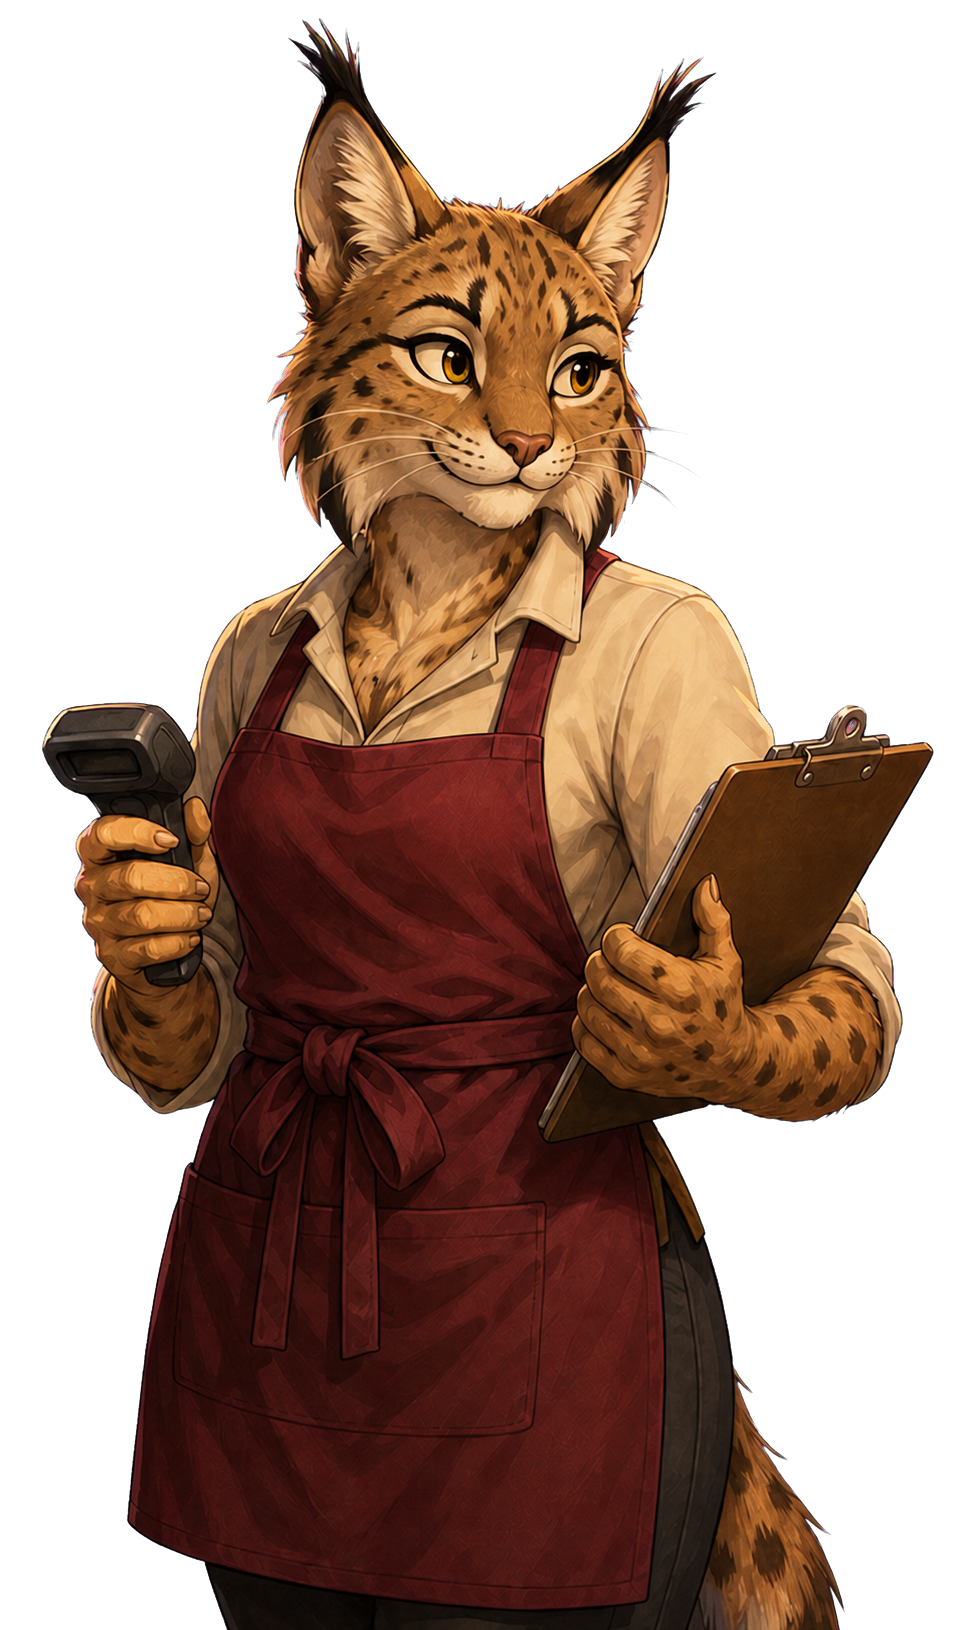
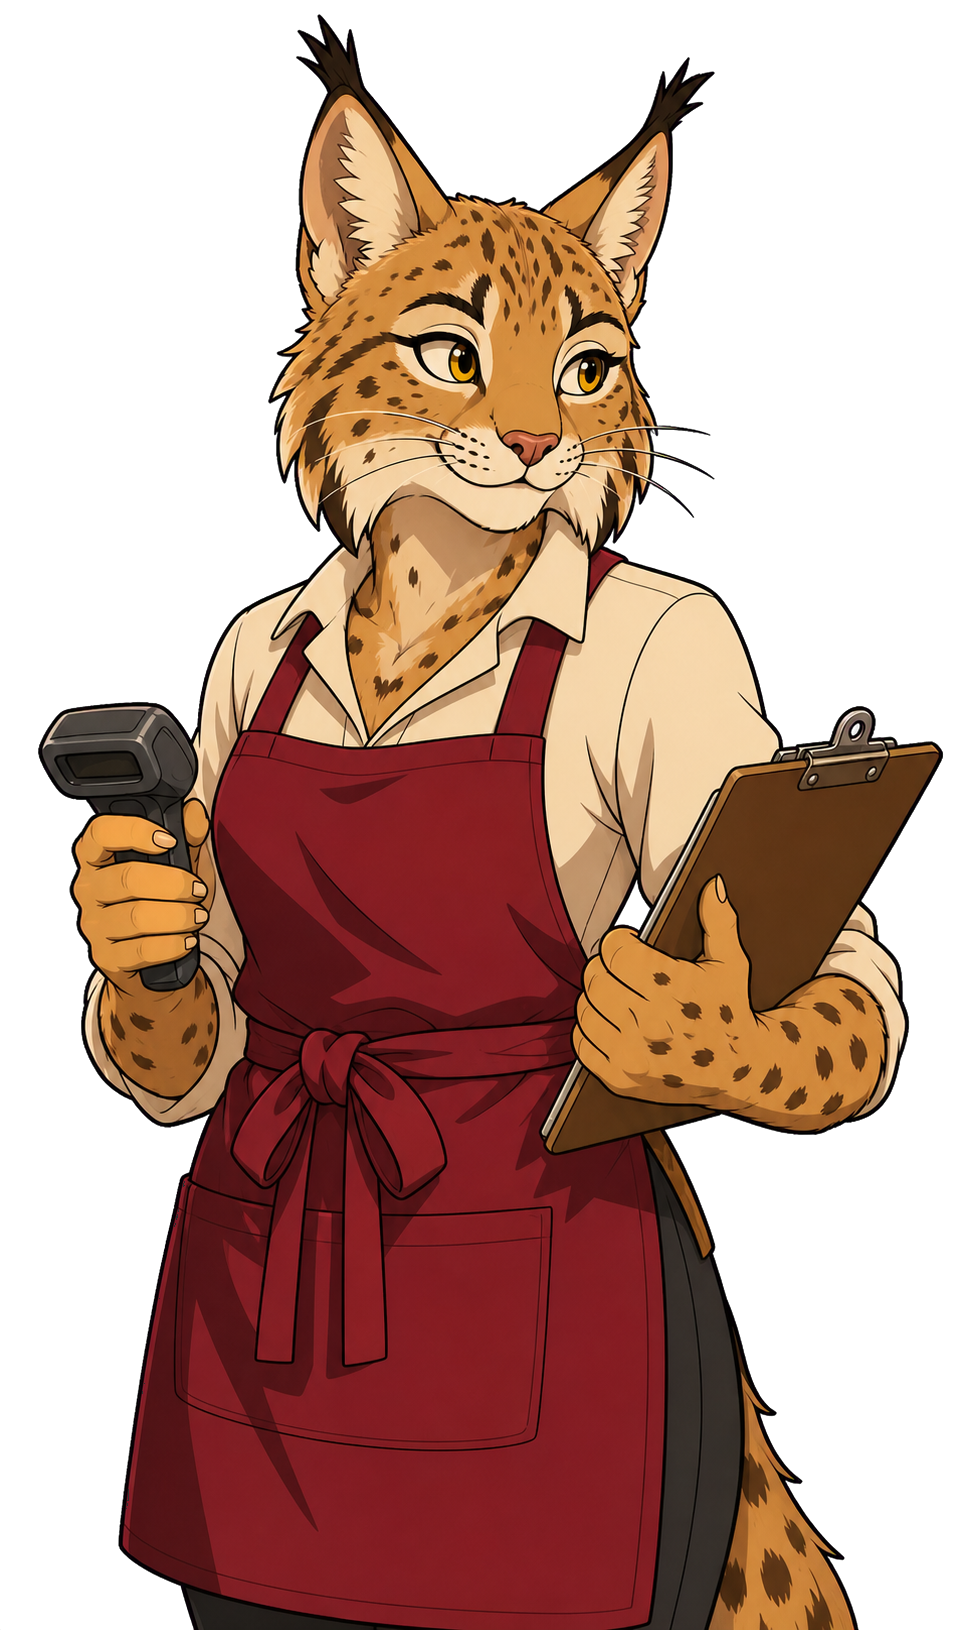
Agregar iconos en el menú de configuración. Corregir dialogo con Rulo Mapache. Actualizar sprites de personajes en la sección de Furry Maps.

diff --git a/styles.css b/styles.css
@@ -4722,8 +4722,13 @@ html.electron-app #menu-theme-btn { display: none; }
 }
 /* Panel de Configuración: filas de volumen (misma estética nm) */
 .nm-settings { display: flex; flex-direction: column; gap: 18px; margin-bottom: 26px; min-width: 340px; }
+/* Rejilla de tres columnas igual en todas las filas: rótulo a la izquierda,
+   control estirado en medio y valor (o casilla) a la derecha. El ancho del
+   rótulo es fijo para que "Blips de texto" quepa en una línea y todas las
+   filas arranquen en el mismo punto (cada fila es su propia rejilla). */
 .nm-setting-row {
-    display: flex;
+    display: grid;
+    grid-template-columns: 120px 1fr 52px;
     align-items: center;
     gap: 14px;
     font-family: 'Outfit', sans-serif;
@@ -4731,10 +4736,14 @@ html.electron-app #menu-theme-btn { display: none; }
     font-size: 15px;
     letter-spacing: 1px;
     color: #fff;
-    white-space: nowrap;
+    text-align: left;
 }
-.nm-setting-row input[type="range"] { flex: 1; accent-color: #ffd166; cursor: pointer; }
-.nm-setting-val { color: #ffd166; min-width: 44px; text-align: right; }
+.nm-setting-row input[type="range"] { width: 100%; accent-color: #ffd166; cursor: pointer; }
+.nm-setting-val { color: #ffd166; text-align: right; }
+/* La fila de casilla solo tiene dos elementos, así que la casilla se quedaría
+   al final de la columna del control. Se extiende hasta la tercera para que
+   cierre en el mismo borde derecho que los porcentajes. */
+.nm-setting-toggle .nm-setting-row input[type="checkbox"] { grid-column: 2 / span 2; }
 
 /* Ajuste de varias opciones (modo de ventana): rótulo arriba y los botones
    debajo, a lo ancho, porque "Pantalla completa" no cabe en una fila. */
@@ -4791,6 +4800,10 @@ html.electron-app #menu-theme-btn { display: none; }
 }
 .nm-tab {
     flex: 1;
+    display: inline-flex;
+    align-items: center;
+    justify-content: center;
+    gap: 8px;
     padding: 9px 14px;
     font-family: 'Outfit', sans-serif;
     font-weight: 600;
@@ -4804,11 +4817,31 @@ html.electron-app #menu-theme-btn { display: none; }
     cursor: pointer;
     transition: all 0.2s ease;
 }
+.nm-tab-icon {
+    width: 28px;
+    height: 28px;
+    flex: 0 0 28px;
+    object-fit: contain;
+    opacity: 0.68;
+    filter: saturate(0.72) brightness(0.88);
+    transform: scale(0.92);
+    transition: opacity 0.2s ease, filter 0.2s ease, transform 0.2s ease;
+}
 .nm-tab:hover { color: rgba(255, 209, 102, 0.85); background: rgba(255, 209, 102, 0.07); }
+.nm-tab:hover .nm-tab-icon {
+    opacity: 0.9;
+    filter: saturate(1) brightness(1.05) drop-shadow(0 0 5px rgba(57, 216, 255, 0.5));
+    transform: scale(1);
+}
 .nm-tab.is-active {
     color: #ffd166;
     background: rgba(255, 209, 102, 0.14);
     border-color: rgba(255, 209, 102, 0.5);
+}
+.nm-tab.is-active .nm-tab-icon {
+    opacity: 1;
+    filter: saturate(1.08) brightness(1.08) drop-shadow(0 0 6px rgba(202, 74, 255, 0.65));
+    transform: scale(1.04);
 }
 /* Alto mínimo para que el panel no dé un salto al cambiar de pestaña: la más
    alta es Trucos (fila + explicación). */

diff --git a/engine.js b/engine.js
@@ -731,7 +731,14 @@ class VisualNovelEngine {
                         dialogue: [
                             { speaker: 'SAMU', text: '¿Puedes saber adónde llega por la presión?' },
                             { speaker: 'RULO MAPACHE', text: 'Sale bajo tierra y reaparece en el límite industrial, justo debajo del solar que el mapa deja en blanco.' },
-                            { speaker: 'SAMU', text: 'Tres pistas, el mismo lugar. Ya no parece una casualidad.' }
+                            // El callejón puede ser la primera, segunda o tercera zona visitada,
+                            // así que la frase se ajusta a las pistas reunidas hasta ese momento.
+                            {
+                                speaker: 'SAMU',
+                                text: ({ clues }) => clues <= 1
+                                    ? 'Primera pista y ya apunta a ese solar. A ver si las demás coinciden.'
+                                    : `${clues === 2 ? 'Dos pistas, el mismo lugar. Ya no parece una casualidad.' : 'Tres pistas, el mismo lugar. Demasiada casualidad.'} `
+                            }
                         ],
                         lore: 'La conducción reaparece bajo el solar vacío del límite industrial.'
                     },
@@ -900,7 +907,11 @@ class VisualNovelEngine {
                     const showCurrent = () => {
                         const line = lines[index];
                         setSpeaker(line.speaker);
-                        text.textContent = line.text;
+                        // Una línea puede ser texto fijo o una función que recibe el
+                        // número de pistas conseguidas contando la zona actual.
+                        text.textContent = typeof line.text === 'function'
+                            ? line.text({ clues: visited.size + 1, total: locations.length })
+                            : line.text;
                         choices.innerHTML = `<button type="button" data-continue>${index === lines.length - 1 ? 'Continuar' : 'Siguiente'}</button>`;
                         choices.querySelector('[data-continue]').addEventListener('click', () => {
                             index += 1;

diff --git a/game.js b/game.js
@@ -515,7 +515,8 @@ function settingsMarkup() {
   if (hayOpcionesDeVideo) {
     grupos.push({
       id: "video",
-      titulo: "🖥 Vídeo",
+      titulo: "Vídeo",
+      icono: "assets/images/ui/settings/video-neon.png",
       // Dos botones en vez de un <select>: la lista que despliega un select la
       // dibuja el sistema, sale clara sobre el panel oscuro y no hay CSS que la
       // alcance. Así además va a juego con las pestañas.
@@ -534,7 +535,8 @@ function settingsMarkup() {
   }
   grupos.push({
     id: "sonido",
-    titulo: "🔊 Sonido",
+    titulo: "Sonido",
+    icono: "assets/images/ui/settings/sound-neon.png",
     contenido: `
             <label class="nm-setting-row">Música
                 <input type="range" class="opt-vol-music" min="0" max="100" value="${volOf("illo_vol_music", 100)}">
@@ -553,7 +555,8 @@ function settingsMarkup() {
   });
   grupos.push({
     id: "trucos",
-    titulo: "⚔ Trucos",
+    titulo: "Trucos",
+    icono: "assets/images/ui/settings/cheats-neon.png",
     contenido: `
             <div class="nm-setting-toggle">
                 <label class="nm-setting-row">Ataque Kosai
@@ -567,7 +570,10 @@ function settingsMarkup() {
     .map(
       (g, i) => `
             <button type="button" class="nm-tab${i === 0 ? " is-active" : ""}" role="tab"
-                    aria-selected="${i === 0}" aria-controls="nm-pane-${g.id}" data-tab="${g.id}">${g.titulo}</button>`,
+                    aria-selected="${i === 0}" aria-controls="nm-pane-${g.id}" data-tab="${g.id}">
+                <img class="nm-tab-icon" src="${g.icono}" alt="" aria-hidden="true">
+                <span>${g.titulo}</span>
+            </button>`,
     )
     .join("");
 

diff --git a/DOCUMENTACION.md b/DOCUMENTACION.md
@@ -3703,3 +3703,31 @@ qué el reino utiliza portales. Edu explica que le gusta **Fisuras 2 de Stim**;
 durante su respuesta Samu cambia a la pose `shocked` y, al recuperar la palabra,
 corta el asunto con «Bueno, cambiando de tema...» antes de retomar la búsqueda de
 Tony y José.
+
+### Iconos neón del menú de Configuración (2026-08-03)
+
+Las pestañas **Vídeo**, **Sonido** y **Trucos** ya no utilizan emojis del sistema.
+`settingsMarkup()` carga iconos PNG RGBA propios desde
+`assets/images/ui/settings/`: `video-neon.png`, `sound-neon.png` y
+`cheats-neon.png`. Los tres recursos usan un lenguaje cyber-neón común en cian,
+violeta y oro, tienen lienzo transparente de `128×128` y se muestran a `28×28`.
+
+Los iconos son decorativos (`alt=""` y `aria-hidden="true"`), por lo que el nombre
+de texto de cada pestaña continúa siendo su etiqueta accesible. Los estados
+normal, hover y activo ajustan opacidad, saturación, escala y resplandor sin
+alterar la lógica compartida entre Configuración y el menú de pausa.
+
+### Retratos cartoon de la investigación de Furry Maps (2026-08-03)
+
+Los tres informantes activos del minijuego `furrielvaExplore` se han redibujado
+con el acabado cartoon 2D del resto del reparto: contorno negro limpio, formas de
+pelaje simplificadas, colores planos y cel-shading de dos tonos. Se conservan
+identidad, especie, expresión, vestuario, pose y utilería narrativa: el paquete
+de Tadeo Trufa, el lector y portapapeles de Lía Lince, y la llave, el plano y el
+cinturón de herramientas de Rulo Mapache.
+
+Los archivos activos mantienen sus nombres, lienzo RGBA transparente y tamaño
+`965×1630`: `assets/images/characters/furrielva/tadeo_trufa_v1.png`,
+`lia_lince_v1.png` y `rulo_mapache_v1.png`. Al conservar rutas y dimensiones no
+ha sido necesario modificar `engine.js`; las tres escenas siguen usando el mismo
+encuadre, precarga y lógica de diálogo.
